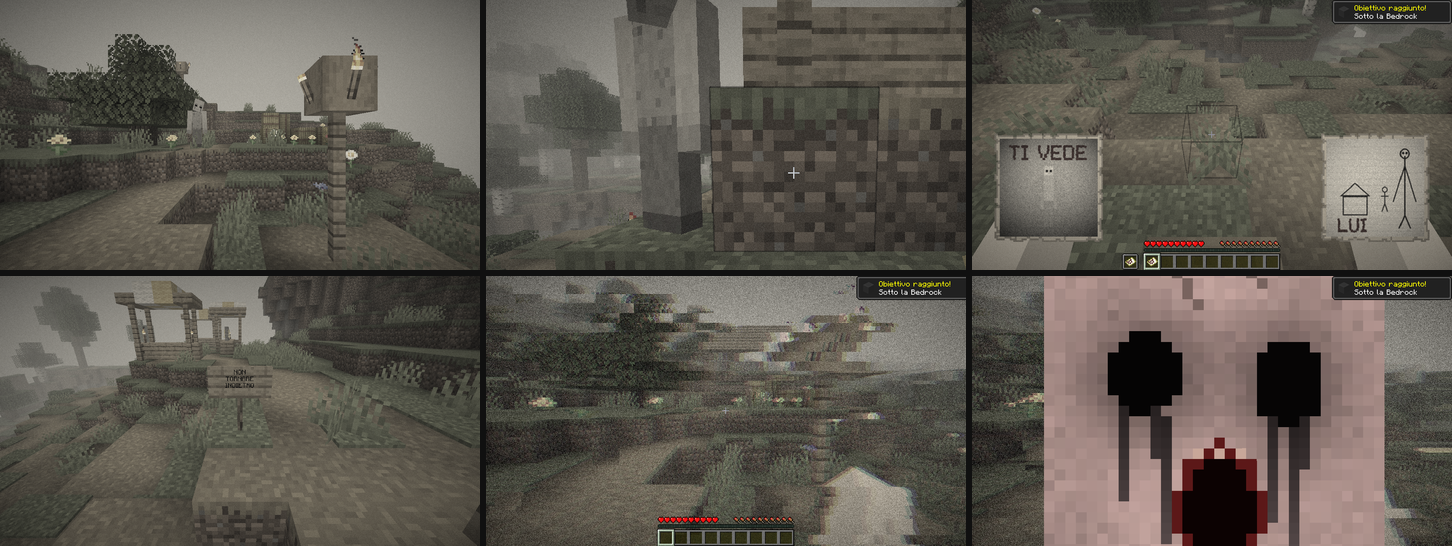
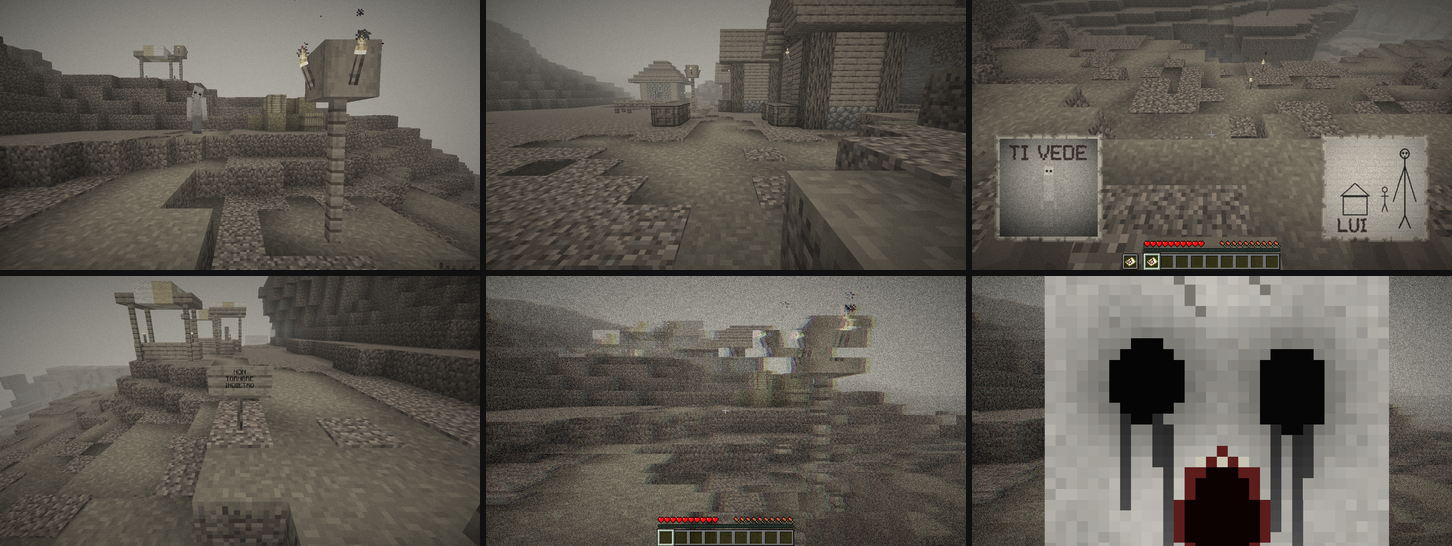
Sotto la Bedrock 1.1.0: nothing grows in the faded world
On request, the faded dimension is now bare: no trees, grass, flowers,
mushrooms, kelp, cactus, sugar cane, vines or lush caves.

- The vegetation step of the biomes and the grass disks are skipped
  for the faded world only (the overworld is untouched).
- Villages there have no trees or flowers (piles of hay and snow stay).
- A pass after decoration removes what is left (crops, plants in flower
  pots, vines of structures) and turns grass, mycelium, moss and rooted
  dirt into plain dirt.
- The leafless trees of the decorator are replaced by pieces of wall
  with one of His maps hanging on them; new sign "nothing grows here",
  and the diary mentions that there are no trees, not even grass.

Tested on a new world: no plant blocks in 169 chunks around spawn, in a
forest and in a village (tens of thousands in the overworld there).

Claude-Session: https://claude.ai/code/session_01A49fjCS1yFPDkt3wNdtGCF

diff --git a/mods/below-bedrock/src/main/java/com/belowbedrock/world/FadedDecorator.java b/mods/below-bedrock/src/main/java/com/belowbedrock/world/FadedDecorator.java
@@ -41,9 +41,9 @@ import net.minecraft.world.level.storage.loot.LootTable;
 
 /**
  * The details of the faded world, added to each chunk after the vanilla features: signs that know
- * too much, leafless trees, 2x2 tunnels, sand pyramids in the sea, doors to nowhere, beds in the
- * grass, eternal fires, abandoned camps, buried chests, empty rooms, shafts down to the bedrock,
- * figures standing in the fog, and maps of Him nailed to trees.
+ * too much, 2x2 tunnels, sand pyramids in the sea, doors to nowhere, beds in the open, eternal
+ * fires, abandoned camps, buried chests, empty rooms, shafts down to the bedrock, figures standing
+ * in the fog, and maps of Him hanging on pieces of wall.
  *
  * <p>Everything is deterministic per chunk and stays within the chunk and its direct neighbours,
  * which is what a feature may touch while the chunk is generated.</p>
@@ -52,10 +52,9 @@ public final class FadedDecorator {
     /** About one chunk in eleven has something. */
     private static final float CHANCE = 0.09F;
     private static final Block[] SIGNS = {Blocks.OAK_SIGN, Blocks.SPRUCE_SIGN, Blocks.BIRCH_SIGN, Blocks.DARK_OAK_SIGN};
-    private static final Block[] LOGS = {Blocks.OAK_LOG, Blocks.BIRCH_LOG, Blocks.SPRUCE_LOG, Blocks.DARK_OAK_LOG};
 
     private enum Feature {
-        SIGN(18), DEAD_TREE(14), DOOR(7), BED(6), FLOATING_BLOCK(6), TORCH_RING(6), TUNNEL(6), PILLAR(6), CAMP(5),
+        SIGN(20), WALL_MAP(9), DOOR(7), BED(6), FLOATING_BLOCK(6), TORCH_RING(6), TUNNEL(6), PILLAR(6), CAMP(5),
         BURIED_CHEST(5), ROOM(5), STATUE(4), ETERNAL_FIRE(4), SHAFT(3);
 
         final int weight;
@@ -91,7 +90,7 @@ public final class FadedDecorator {
             }
             switch (pick(random)) {
                 case SIGN -> sign(level, random, pos, Signs.random(random));
-                case DEAD_TREE -> deadTree(level, random, pos);
+                case WALL_MAP -> wallMap(level, random, pos);
                 case DOOR -> door(level, random, pos);
                 case BED -> bed(level, random, pos);
                 case FLOATING_BLOCK -> floatingBlock(level, random, pos);
@@ -217,38 +216,34 @@ public final class FadedDecorator {
         }
     }
 
-    /** A tree with no leaves. */
-    private static void deadTree(WorldGenLevel level, RandomSource random, BlockPos pos) {
-        if (!ground(level, pos)) {
-            return;
-        }
-        BlockState log = LOGS[random.nextInt(LOGS.length)].defaultBlockState();
-        int height = 4 + random.nextInt(4);
-        for (int i = 0; i < height; i++) {
-            if (!free(level, pos.above(i))) {
+    /** A piece of wall in the middle of nowhere, and one of His maps hanging on it. */
+    private static void wallMap(WorldGenLevel level, RandomSource random, BlockPos pos) {
+        Direction facing = horizontal(random);
+        Direction along = facing.getClockWise();
+        for (int k = -1; k <= 1; k++) {
+            BlockPos base = pos.relative(along, k);
+            if (!ground(level, base) || !free(level, base) || !free(level, base.above())) {
                 return;
             }
-            set(level, pos.above(i), log);
         }
-        int branches = 1 + random.nextInt(3);
-        for (int b = 0; b < branches; b++) {
-            Direction side = horizontal(random);
-            BlockPos start = pos.above(height - 1 - random.nextInt(2));
-            int length = 1 + random.nextInt(2);
-            for (int i = 1; i <= length; i++) {
-                BlockPos branch = start.relative(side, i).above(i == length ? 1 : 0);
-                if (free(level, branch)) {
-                    set(level, branch, log.setValue(RotatedPillarBlock.AXIS, i == length ? Direction.Axis.Y : side.getAxis()));
-                }
-            }
+        BlockState[] materials = {Blocks.STONE_BRICKS.defaultBlockState(), Blocks.OAK_PLANKS.defaultBlockState(),
+                Blocks.WHITE_CONCRETE.defaultBlockState(), Blocks.SMOOTH_STONE.defaultBlockState()};
+        BlockState wall = materials[random.nextInt(materials.length)];
+        for (int k = -1; k <= 1; k++) {
+            set(level, pos.relative(along, k), wall);
+            set(level, pos.relative(along, k).above(), wall);
         }
+        mapFrame(level, random, pos.above().relative(facing), facing);
         if (random.nextInt(3) == 0) {
-            Direction facing = horizontal(random);
-            mapFrame(level, random, pos.above(1).relative(facing), facing);
+            BlockPos signPos = pos.relative(facing.getOpposite());
+            if (free(level, signPos)) {
+                set(level, signPos, Blocks.OAK_WALL_SIGN.defaultBlockState().setValue(WallSignBlock.FACING, facing.getOpposite()));
+                writeSign(level, signPos, Signs.random(random));
+            }
         }
     }
 
-    /** A door standing in the grass, leading nowhere. */
+    /** A door standing in the open, leading nowhere. */
     private static void door(WorldGenLevel level, RandomSource random, BlockPos pos) {
         if (!ground(level, pos) || !free(level, pos) || !free(level, pos.above())) {
             return;
@@ -495,7 +490,7 @@ public final class FadedDecorator {
             for (int dz = -2; dz <= 2; dz++) {
                 BlockPos at = surface(level, pos.getX() + dx, pos.getZ() + dz);
                 if (!level.getBlockState(at).isAir() && free(level, at)) {
-                    set(level, at, Blocks.AIR.defaultBlockState()); // no grass to spread to
+                    set(level, at, Blocks.AIR.defaultBlockState()); // nothing to spread to
                 }
                 BlockPos groundPos = at.below();
                 if (level.getBlockState(groundPos).is(Blocks.GRASS_BLOCK)) {

diff --git a/mods/below-bedrock/src/main/java/com/belowbedrock/world/FadedCleaner.java b/mods/below-bedrock/src/main/java/com/belowbedrock/world/FadedCleaner.java
@@ -1,0 +1,84 @@
+package com.belowbedrock.world;
+
+import java.util.Set;
+import net.minecraft.core.BlockPos;
+import net.minecraft.core.SectionPos;
+import net.minecraft.tags.BlockTags;
+import net.minecraft.world.level.ChunkPos;
+import net.minecraft.world.level.WorldGenLevel;
+import net.minecraft.world.level.block.Block;
+import net.minecraft.world.level.block.Blocks;
+import net.minecraft.world.level.block.state.BlockState;
+import net.minecraft.world.level.block.state.properties.BlockStateProperties;
+import net.minecraft.world.level.chunk.ChunkAccess;
+import net.minecraft.world.level.chunk.LevelChunkSection;
+
+/**
+ * Nothing grows in the faded world. Trees, grass, flowers and the rest of the vegetation are never
+ * generated there (see the mixins); this pass removes what is left in a freshly decorated chunk:
+ * plants that come with structures (crops, flower pots, vines...) and the grass on the ground,
+ * which turns into bare dirt.
+ */
+public final class FadedCleaner {
+    /** Plants that are not in the block tags used below. */
+    private static final Set<Block> PLANTS = Set.of(Blocks.SHORT_GRASS, Blocks.TALL_GRASS, Blocks.FERN, Blocks.LARGE_FERN,
+            Blocks.DEAD_BUSH, Blocks.VINE, Blocks.GLOW_LICHEN, Blocks.HANGING_ROOTS, Blocks.SEAGRASS, Blocks.TALL_SEAGRASS,
+            Blocks.KELP, Blocks.KELP_PLANT, Blocks.SEA_PICKLE, Blocks.LILY_PAD, Blocks.SUGAR_CANE, Blocks.CACTUS, Blocks.BAMBOO,
+            Blocks.BAMBOO_SAPLING, Blocks.SWEET_BERRY_BUSH, Blocks.COCOA, Blocks.MOSS_CARPET, Blocks.AZALEA, Blocks.FLOWERING_AZALEA,
+            Blocks.BIG_DRIPLEAF, Blocks.BIG_DRIPLEAF_STEM, Blocks.SMALL_DRIPLEAF, Blocks.SPORE_BLOSSOM, Blocks.BROWN_MUSHROOM,
+            Blocks.RED_MUSHROOM, Blocks.BROWN_MUSHROOM_BLOCK, Blocks.RED_MUSHROOM_BLOCK, Blocks.MUSHROOM_STEM, Blocks.PITCHER_PLANT,
+            Blocks.ATTACHED_MELON_STEM, Blocks.ATTACHED_PUMPKIN_STEM, Blocks.MANGROVE_ROOTS);
+    /** Living ground that becomes plain dirt. */
+    private static final Set<Block> LIVING_GROUND = Set.of(Blocks.GRASS_BLOCK, Blocks.MYCELIUM, Blocks.MOSS_BLOCK, Blocks.ROOTED_DIRT);
+
+    private FadedCleaner() {
+    }
+
+    private static boolean isTarget(BlockState state) {
+        Block block = state.getBlock();
+        if (block == Blocks.AIR || block == Blocks.STONE || block == Blocks.WATER || block == Blocks.DEEPSLATE) {
+            return false; // the common case, quickly
+        }
+        return PLANTS.contains(block) || LIVING_GROUND.contains(block) || state.is(BlockTags.LEAVES) || state.is(BlockTags.SAPLINGS)
+                || state.is(BlockTags.FLOWERS) || state.is(BlockTags.CROPS) || state.is(BlockTags.CAVE_VINES)
+                || (state.is(BlockTags.FLOWER_POTS) && block != Blocks.FLOWER_POT);
+    }
+
+    private static BlockState replacement(BlockState state) {
+        Block block = state.getBlock();
+        if (LIVING_GROUND.contains(block)) {
+            return Blocks.DIRT.defaultBlockState();
+        }
+        if (state.is(BlockTags.FLOWER_POTS)) {
+            return Blocks.FLOWER_POT.defaultBlockState(); // the pot stays, empty
+        }
+        boolean underwater = block == Blocks.SEAGRASS || block == Blocks.TALL_SEAGRASS || block == Blocks.KELP || block == Blocks.KELP_PLANT
+                || (state.hasProperty(BlockStateProperties.WATERLOGGED) && state.getValue(BlockStateProperties.WATERLOGGED));
+        return underwater ? Blocks.WATER.defaultBlockState() : Blocks.AIR.defaultBlockState();
+    }
+
+    /** Removes every plant from {@code chunk} (one section at a time, skipping sections that have none). */
+    public static void clean(WorldGenLevel level, ChunkAccess chunk) {
+        ChunkPos chunkPos = chunk.getPos();
+        LevelChunkSection[] sections = chunk.getSections();
+        BlockPos.MutableBlockPos pos = new BlockPos.MutableBlockPos();
+        for (int index = 0; index < sections.length; index++) {
+            LevelChunkSection section = sections[index];
+            if (section.hasOnlyAir() || !section.maybeHas(FadedCleaner::isTarget)) {
+                continue;
+            }
+            int baseY = SectionPos.sectionToBlockCoord(chunk.getSectionYFromSectionIndex(index));
+            for (int y = 0; y < 16; y++) {
+                for (int z = 0; z < 16; z++) {
+                    for (int x = 0; x < 16; x++) {
+                        BlockState state = section.getBlockState(x, y, z);
+                        if (isTarget(state)) {
+                            pos.set(chunkPos.getMinBlockX() + x, baseY + y, chunkPos.getMinBlockZ() + z);
+                            level.setBlock(pos, replacement(state), Block.UPDATE_CLIENTS);
+                        }
+                    }
+                }
+            }
+        }
+    }
+}

diff --git a/mods/below-bedrock/src/main/java/com/belowbedrock/mixin/ChunkGeneratorMixin.java b/mods/below-bedrock/src/main/java/com/belowbedrock/mixin/ChunkGeneratorMixin.java
@@ -1,22 +1,83 @@
 package com.belowbedrock.mixin;
 
 import com.belowbedrock.world.Faded;
+import com.belowbedrock.world.FadedCleaner;
 import com.belowbedrock.world.FadedDecorator;
+import com.llamalad7.mixinextras.injector.wrapoperation.Operation;
+import com.llamalad7.mixinextras.injector.wrapoperation.WrapOperation;
+import java.util.Collections;
+import java.util.IdentityHashMap;
+import java.util.List;
+import java.util.Set;
+import java.util.function.Supplier;
+import net.minecraft.core.BlockPos;
+import net.minecraft.core.registries.Registries;
+import net.minecraft.resources.ResourceKey;
+import net.minecraft.resources.ResourceLocation;
+import net.minecraft.util.RandomSource;
 import net.minecraft.world.level.StructureManager;
 import net.minecraft.world.level.WorldGenLevel;
+import net.minecraft.world.level.biome.FeatureSorter;
 import net.minecraft.world.level.chunk.ChunkAccess;
 import net.minecraft.world.level.chunk.ChunkGenerator;
+import net.minecraft.world.level.levelgen.GenerationStep;
+import net.minecraft.world.level.levelgen.placement.PlacedFeature;
+import org.spongepowered.asm.mixin.Final;
 import org.spongepowered.asm.mixin.Mixin;
+import org.spongepowered.asm.mixin.Shadow;
+import org.spongepowered.asm.mixin.Unique;
 import org.spongepowered.asm.mixin.injection.At;
 import org.spongepowered.asm.mixin.injection.Inject;
 import org.spongepowered.asm.mixin.injection.callback.CallbackInfo;
 
-/** After the vanilla features of a faded chunk, add the things that should not be there. */
+/**
+ * In the faded world nothing grows: the vegetation step of the biomes (trees, grass, flowers,
+ * mushrooms, kelp, cactus...) and the grass disks are skipped. After the vanilla features, what
+ * is left of the plants is removed, and then come the things that should not be there.
+ */
 @Mixin(ChunkGenerator.class)
 public abstract class ChunkGeneratorMixin {
+    @Unique
+    private static final ResourceKey<PlacedFeature> DISK_GRASS = ResourceKey.create(Registries.PLACED_FEATURE,
+            ResourceLocation.withDefaultNamespace("disk_grass"));
+
+    @Shadow
+    @Final
+    private Supplier<List<FeatureSorter.StepFeatureData>> featuresPerStep;
+
+    @Unique
+    private volatile Set<PlacedFeature> belowbedrock$plants;
+
+    @WrapOperation(method = "applyBiomeDecoration", at = @At(value = "INVOKE",
+            target = "Lnet/minecraft/world/level/levelgen/placement/PlacedFeature;placeWithBiomeCheck(Lnet/minecraft/world/level/WorldGenLevel;Lnet/minecraft/world/level/chunk/ChunkGenerator;Lnet/minecraft/util/RandomSource;Lnet/minecraft/core/BlockPos;)Z"))
+    private boolean belowbedrock$nothingGrows(PlacedFeature feature, WorldGenLevel level, ChunkGenerator generator, RandomSource random,
+                                              BlockPos pos, Operation<Boolean> original) {
+        if (Faded.is(level.getLevel()) && this.belowbedrock$plants(level).contains(feature)) {
+            return false;
+        }
+        return original.call(feature, level, generator, random, pos);
+    }
+
+    @Unique
+    private Set<PlacedFeature> belowbedrock$plants(WorldGenLevel level) {
+        Set<PlacedFeature> plants = this.belowbedrock$plants;
+        if (plants == null) {
+            plants = Collections.newSetFromMap(new IdentityHashMap<>());
+            List<FeatureSorter.StepFeatureData> steps = this.featuresPerStep.get();
+            int vegetation = GenerationStep.Decoration.VEGETAL_DECORATION.ordinal();
+            if (vegetation < steps.size()) {
+                plants.addAll(steps.get(vegetation).features());
+            }
+            level.registryAccess().registryOrThrow(Registries.PLACED_FEATURE).getOptional(DISK_GRASS).ifPresent(plants::add);
+            this.belowbedrock$plants = plants;
+        }
+        return plants;
+    }
+
     @Inject(method = "applyBiomeDecoration", at = @At("TAIL"))
     private void belowbedrock$decorate(WorldGenLevel level, ChunkAccess chunk, StructureManager structures, CallbackInfo ci) {
         if (Faded.is(level.getLevel())) {
+            FadedCleaner.clean(level, chunk);
             FadedDecorator.decorate(level, chunk);
         }
     }

diff --git a/mods/below-bedrock/src/main/java/com/belowbedrock/mixin/FeaturePoolElementMixin.java b/mods/below-bedrock/src/main/java/com/belowbedrock/mixin/FeaturePoolElementMixin.java
@@ -1,0 +1,39 @@
+package com.belowbedrock.mixin;
+
+import com.belowbedrock.world.Faded;
+import net.minecraft.core.BlockPos;
+import net.minecraft.core.Holder;
+import net.minecraft.util.RandomSource;
+import net.minecraft.world.level.StructureManager;
+import net.minecraft.world.level.WorldGenLevel;
+import net.minecraft.world.level.block.Rotation;
+import net.minecraft.world.level.chunk.ChunkGenerator;
+import net.minecraft.world.level.levelgen.feature.Feature;
+import net.minecraft.world.level.levelgen.placement.PlacedFeature;
+import net.minecraft.world.level.levelgen.structure.BoundingBox;
+import net.minecraft.world.level.levelgen.structure.pools.FeaturePoolElement;
+import net.minecraft.world.level.levelgen.structure.templatesystem.LiquidSettings;
+import net.minecraft.world.level.levelgen.structure.templatesystem.StructureTemplateManager;
+import org.spongepowered.asm.mixin.Final;
+import org.spongepowered.asm.mixin.Mixin;
+import org.spongepowered.asm.mixin.Shadow;
+import org.spongepowered.asm.mixin.injection.At;
+import org.spongepowered.asm.mixin.injection.Inject;
+import org.spongepowered.asm.mixin.injection.callback.CallbackInfoReturnable;
+
+/** Villages in the faded world have no trees or flowers either; only their piles of hay and snow are left. */
+@Mixin(FeaturePoolElement.class)
+public abstract class FeaturePoolElementMixin {
+    @Shadow
+    @Final
+    private Holder<PlacedFeature> feature;
+
+    @Inject(method = "place", at = @At("HEAD"), cancellable = true)
+    private void belowbedrock$noTrees(StructureTemplateManager templates, WorldGenLevel level, StructureManager structures,
+                                      ChunkGenerator generator, BlockPos pos, BlockPos pivot, Rotation rotation, BoundingBox box,
+                                      RandomSource random, LiquidSettings liquids, boolean keepJigsaws, CallbackInfoReturnable<Boolean> cir) {
+        if (Faded.is(level.getLevel()) && this.feature.value().feature().value().feature() != Feature.BLOCK_PILE) {
+            cir.setReturnValue(true);
+        }
+    }
+}

diff --git a/mods/below-bedrock/src/main/java/com/belowbedrock/world/Signs.java b/mods/below-bedrock/src/main/java/com/belowbedrock/world/Signs.java
@@ -8,8 +8,8 @@ public final class Signs {
     /** Message id and number of lines; the text is in the language files: sign.belowbedrock.<id>.<line>. */
     private static final String[] IDS = {"turn_back", "never_sleeps", "counted", "no_rain", "lid", "been_here", "eyes", "stop",
             "house", "dig", "animals", "arrow", "hello", "its_me", "brb", "no_sun", "waiting", "day_one", "help", "question",
-            "behind", "quiet", "again", "empty", "not_yours"};
-    private static final int[] LINES = {3, 3, 4, 2, 3, 3, 3, 3, 3, 3, 2, 1, 1, 1, 2, 2, 3, 1, 1, 1, 2, 2, 2, 0, 3};
+            "behind", "quiet", "again", "empty", "not_yours", "nothing_grows"};
+    private static final int[] LINES = {3, 3, 4, 2, 3, 3, 3, 3, 3, 3, 2, 1, 1, 1, 2, 2, 3, 1, 1, 1, 2, 2, 2, 0, 3, 3};
 
     private Signs() {
     }

diff --git a/CLAUDE.md b/CLAUDE.md
@@ -55,7 +55,8 @@ Mod "misteriosa" per video YouTube, tutta in stile vanilla. Richieste dell'utent
 - Piccone `belowbedrock:glitched_pickaxe` (`item/GlitchedPickaxeItem`): ricetta del piccone di diamante capovolta; nome con una lettera offuscata (argomento `%s` nel lang); texture animata (`.mcmeta`). `mixin/BlockBehaviourMixin` dà alla bedrock un progresso di scavo (`BEDROCK_PROGRESS`) solo con questo piccone, solo in overworld e mondo sbiadito; ogni blocco consuma `BEDROCK_WEAR` di durabilità.
 - `fall/VoidFall`: sotto il fondo dell'overworld (o del mondo sbiadito) il danno del vuoto viene annullato e parte una caduta di 600-800 tick (vento, disco 13/11 lento legato al giocatore, battito, oscurità, nausea, frasi nella action bar, glitch, poi blackout). All'arrivo: stesso x/z nel mondo sbiadito (`teleportTo`, ticket di chunk 100 tick prima), oppure il punto di respawn se si cade dal mondo sbiadito.
 - Dimensione `belowbedrock:faded` (`data/belowbedrock/dimension*/faded.json`): generatore `minecraft:noise` con impostazioni e biomi dell'overworld, quindi stesso seme = copia del mondo del giocatore. `fixed_time` 6000, `natural: false` (bussola e orologio girano, niente portali). Vuota: mixin su `WorldGenRegion.addFreshEntity` (niente `Mob` in worldgen), `NaturalSpawner.spawnForChunk`, `BaseSpawner.serverTick`, `TrialSpawner.tickServer`. I letti mostrano "ci sono mostri vicino" (`world/FadedWorld`).
-- `world/FadedDecorator`, chiamato dal mixin su `ChunkGenerator.applyBiomeDecoration` (TAIL): circa 1 chunk su 11 ha un dettaglio (cartelli, alberi morti, porte, letti, blocchi sospesi, anelli di torce, tunnel 2x2, pilastri, accampamenti, bauli sepolti, stanze, armor stand, fuochi eterni, pozzi; sull'acqua piramidi di sabbia e isolette). Deterministico per chunk, scrive solo nel chunk e nei vicini. Il testo dei cartelli si carica con `loadWithComponents` (in worldgen `setText` andrebbe in NPE). Le cornici vengono create con una mappa segnaposto (custom data `belowbedrock_picture`), sostituita dalla mappa vera in `ServerEntityEvents.ENTITY_LOAD`.
+- Dalla 1.1.0 (richiesta dell'utente) nel mondo sbiadito non cresce niente: `ChunkGeneratorMixin` salta le feature del passo `VEGETAL_DECORATION` (alberi, erba, fiori, funghi, alghe, cactus, canne, liane, grotte rigogliose) e `disk_grass`; `FeaturePoolElementMixin` salta alberi e fiori dei villaggi (restano solo i mucchi di fieno/neve); `world/FadedCleaner` poi toglie dal chunk le piante rimaste (raccolti, vasi con fiori -> vasi vuoti, liane delle strutture) e trasforma erba, micelio, muschio e terra radicata in terra. Nel test: zero piante in 169 chunk (nell'overworld, stessa zona, decine di migliaia).
+- `world/FadedDecorator`, chiamato dal mixin su `ChunkGenerator.applyBiomeDecoration` (TAIL, dopo `FadedCleaner`): circa 1 chunk su 11 ha un dettaglio (cartelli, pezzi di muro con una mappa, porte, letti, blocchi sospesi, anelli di torce, tunnel 2x2, pilastri, accampamenti, bauli sepolti, stanze, armor stand, fuochi eterni, pozzi; sull'acqua piramidi di sabbia e isolette). Deterministico per chunk, scrive solo nel chunk e nei vicini. Il testo dei cartelli si carica con `loadWithComponents` (in worldgen `setText` andrebbe in NPE). Le cornici vengono create con una mappa segnaposto (custom data `belowbedrock_picture`), sostituita dalla mappa vera in `ServerEntityEvents.ENTITY_LOAD`.
 - Mappe (`world/FadedMaps`): 9 immagini in `src/main/resources/belowbedrock_maps/*.bin` (128x128 byte di colori mappa, generate con uno script Python); un `MapId` bloccato per immagine, salvato in `data/belowbedrock_maps.dat`. Loot function `belowbedrock:creepy_map` e `belowbedrock:diary` (diario in 3 volumi, pagine tradotte); loot table in `data/belowbedrock/loot_table/chests/`.
 - Lui (`entity/Inhabitant`, `belowbedrock:inhabitant`): `noSave`, invulnerabile (tranne /kill), niente ombra, modello giocatore allungato con braccia lunghe (`client/render/`). Modalità WATCH, PEEK, STALK, MIMIC, GIFT, CHASE e STILL (uovo o /summon).
 - Comando `/faded` (`haunt/FadedCommand`, livello 2): `him <modalità>`, `event <nome>`, `fall`; utile per i video e per i test.

diff --git a/README.md b/README.md
@@ -106,7 +106,7 @@ Uno yo-yo arcobaleno gigante (1,25 blocchi), per Forge 1.20.1. Jar: `rainbowyoyo
 
 ![Il mondo sbiadito e Lui](docs/below-bedrock-preview.png)
 
-Una mod misteriosa per **Fabric 1.21.1**: serve anche **Fabric API**. Jar: `belowbedrock-1.0.0.jar` nelle [Releases](../../releases). Va installata anche sul server, in multiplayer.
+Una mod misteriosa per **Fabric 1.21.1**: serve anche **Fabric API**. Jar: `belowbedrock-1.1.0.jar` nelle [Releases](../../releases). Va installata anche sul server, in multiplayer.
 
 - **Piccone di diamante glitchato**: la ricetta del piccone di diamante, ma al contrario. La texture ogni tanto si glitcha e una lettera del nome non si legge mai.
   ```
@@ -116,8 +116,8 @@ Una mod misteriosa per **Fabric 1.21.1**: serve anche **Fabric API**. Jar: `belo
   ```
 - È l'unico attrezzo che **rompe la bedrock** (circa 4 secondi a blocco), solo nel mondo normale e in quello sbiadito.
 - **Buttati nel vuoto**: non muori. Cadi per 30-40 secondi nel buio, con il vento, un disco suonato troppo lento, un battito che accelera, voci e glitch. Poi diventa tutto nero...
-- ...e ti svegli nel **mondo sbiadito**: è la mappa del tuo mondo (stesso seme, infinita come quella normale), ma senza colori, senza sole, senza animali né mostri, sempre di giorno, nella nebbia. E la tua casa non c'è.
-- In giro trovi dettagli inquietanti: cartelli che sanno troppo, alberi senza foglie, tunnel 2x2, piramidi di sabbia nel mare, porte in mezzo al nulla, letti nell'erba, fuochi eterni, accampamenti abbandonati, bauli sepolti sotto un cartello "QUI", stanze vuote (gialle, bianche o camere da letto), pozzi dritti fino alla bedrock, figure ferme nella nebbia. E le **mappe**: 9 immagini di Lui, appese agli alberi, nelle stanze e nei bauli, insieme al diario di chi è caduto prima di te.
+- ...e ti svegli nel **mondo sbiadito**: è la mappa del tuo mondo (stesso seme, infinita come quella normale), ma senza colori, senza sole, senza animali né mostri, sempre di giorno, nella nebbia. E non ci cresce niente: niente alberi, niente erba, niente fiori, funghi o alghe; il terreno è terra nuda e nei villaggi i campi sono vuoti. E la tua casa non c'è.
+- In giro trovi dettagli inquietanti: cartelli che sanno troppo, pezzi di muro in mezzo al nulla, tunnel 2x2, piramidi di sabbia nel mare, porte che non portano da nessuna parte, letti all'aperto, fuochi eterni, accampamenti abbandonati, bauli sepolti sotto un cartello "QUI", stanze vuote (gialle, bianche o camere da letto), pozzi dritti fino alla bedrock, figure ferme nella nebbia. E le **mappe**: 9 immagini di Lui, appese ai muri e nelle stanze o chiuse nei bauli, insieme al diario di chi è caduto prima di te.
 - **Lui**: alto, pallido, occhi neri, braccia troppo lunghe, nessuna ombra. Non si può ferire.
   - ti guarda da lontano e sparisce se lo fissi;
   - compare con la coda dell'occhio;
